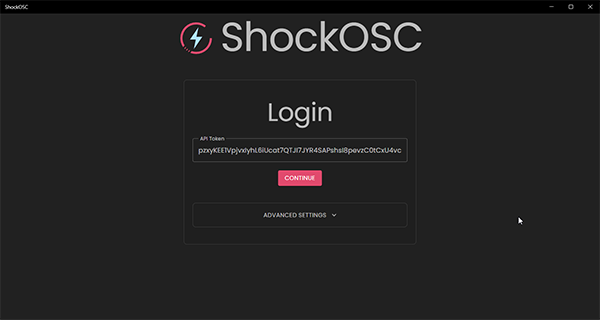
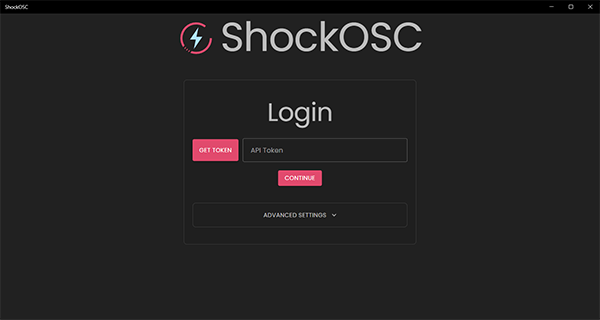
Updated Image and Guide for ShockOSC

Changed region(s): [[0.3, 0.4062, 0.66, 0.5312]]

diff --git a/docs/guides/shockosc-basic-new.md b/docs/guides/shockosc-basic-new.md
@@ -12,26 +12,17 @@
 
 - [Fully setup shocker](openshock-first-setup.md)
 - [Newest ShockOsc](https://github.com/OpenShock/ShockOsc/releases)
+- [Shocklink Account](https://shocklink.net/)
 
 ## Setup ShockOsc
 1. [Download ShockOSC](https://github.com/OpenShock/ShockOsc/releases) and install it. 
-2. Go to [Shocklink.net](https://shocklink.net/) and acquire an API Token for your account.
-    1. Login into your account
-    2. Got to the "API Token" tab.  
-    ![Find API Tokens](../static/guides/shockosc/finds_apitokens.png)  
-    3. Press the green **+** icon.  
-    ![Green +](../static/guides/shockosc/green_plus.png)  
-    4. Give it a name.
-    5. Set no expiry
-    6. Click Create.  
-    ![Create Token](../static/guides/shockosc/create_APIToken.png)  
-    7. Copy the shown code.  
-    ![Copy Token](../static/guides/shockosc/API_Token.png)  
-3. Login to ShockOSC
+2. Login to ShockOSC
     1. Open ShockOSC
-    2. Paste the API Token into the API Token field and press continue.
+    2. Click on "Get Token", this will open a browser window.
+    3. In the browser, log into your Shocklink account and accept the request shown.
+    4. ShockOSC will now log you in.
     ![LogIn](../static/guides/shockosc/NewShockOSC-LogIn.png)
-4. Configure your Shock Group.  
+4. Create your Shock Group.  
 *everything is done in groups, doesn't matter if it's only one shocker or multiple shockers.*  
     1. Go to the Group Tab.
     2. Create a new Group.
@@ -39,7 +30,7 @@
     4. Select what shocker is to be used with the group.  
     5. *Optional you can override the default limits set in ShockOSC per group*
     ![Group Setup](../static/guides/shockosc/NewShockOSC-GroupSetup.png)  
-5. Setup your Limits.
+5. Configure your Limits.
     1. Go to the Config Tab
     2. Configure Cooldown, Hold time, if Intensity is fixed or random and the limits for that same with duration.
     3. Choose if ShockOSC pauses while being AFK and if it'll unmute you when shocked.
